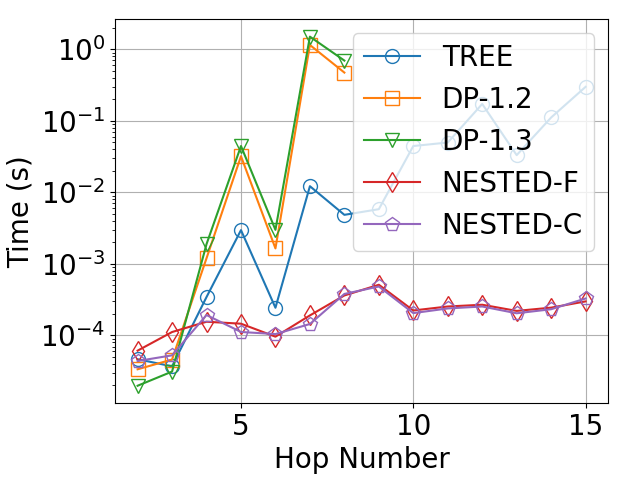
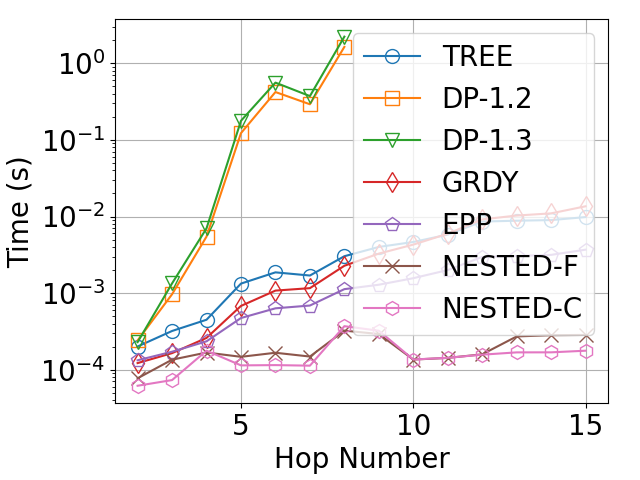
sync

diff --git a/src/eval_path_infocom.py b/src/eval_path_infocom.py
@@ -420,7 +420,7 @@ def test_binary_cost_all(fth, exp_num, gate=qu.GDP_LOSH):
         gate_desc = "L"
 
     cost_cap = 1e5
-    edge_num_range = range(2, 26, 1)
+    edge_num_range = range(2, 16, 1)
     # edge_num_range = range(4, 11, 2)
 
     binary_edge_limit = 4
@@ -541,17 +541,18 @@ def test_binary_cost_all(fth, exp_num, gate=qu.GDP_LOSH):
     filename = "data/path/binary_path_cost_f={}_noise={}.png".format(fth, gate_desc)
     draw_lines(x, ys, xlabel, ylabel, labels, markers, filename=filename, yscale='log')
 
-    ys1 = costs[:, :3].T
-    ys2 = costs[:, 3:].T
+    separate = 5
+    ys1 = costs[:, :separate].T
+    ys2 = costs[:, separate:].T
     filename = "data/path/binary_path_cost_f={}_noise={}_2y.png".format(fth, gate_desc)
     draw_2y_lines(x, ys1, ys2, xlabel, 
         y1_label=ylabel, y2_label=ylabel,
-        line1_labels=labels[:3], line2_labels=labels[3:],
-        line1_colors=colors[:3], line2_colors=colors[3:],
-        line1_markers=markers[:3], line2_markers=markers[3:],
+        line1_labels=labels[:separate], line2_labels=labels[separate:],
+        line1_colors=colors[:separate], line2_colors=colors[separate:],
+        line1_markers=markers[:separate], line2_markers=markers[separate:],
         xscale='linear', y1_scale='linear', y2_scale='log',
         xreverse=False, y1_reverse=False, y2_reverse=False,
-        xlim=None, y1_lim=None, y2_lim=(1e0, 1e5),
+        xlim=None, y1_lim=(0, 1e3), y2_lim=(1e0, 1e6),
         filename=filename,
         )
 
@@ -589,7 +590,7 @@ def test_binary_succ_all(fth, exp_num, gate=qu.GDP_LOSH):
             binary_edge_limit = 6
     if fth <= 0.9:
         if gate == qu.GDP:
-            binary_edge_limit = 10
+            binary_edge_limit = 8
         elif gate == qu.GDP_LOSH:
             binary_edge_limit = 6
 
@@ -699,17 +700,18 @@ def test_binary_succ_all(fth, exp_num, gate=qu.GDP_LOSH):
     filename = "data/path/binary_path_cost_f={}_noise={}.png".format(fth, gate_desc)
     draw_lines(x, ys, xlabel, ylabel, labels, markers, filename=filename, yscale='log')
 
-    ys1 = costs[:, :3].T
-    ys2 = costs[:, 3:].T
+    separate = 5
+    ys1 = costs[:, :separate].T
+    ys2 = costs[:, separate:].T
     filename = "data/path/binary_path_cost_f={}_noise={}_2y.png".format(fth, gate_desc)
     draw_2y_lines(x, ys1, ys2, xlabel, 
         y1_label=ylabel, y2_label=ylabel,
-        line1_labels=labels[:3], line2_labels=labels[3:],
-        line1_colors=colors[:3], line2_colors=colors[3:],
-        line1_markers=markers[:3], line2_markers=markers[3:],
+        line1_labels=labels[:separate], line2_labels=labels[separate:],
+        line1_colors=colors[:separate], line2_colors=colors[separate:],
+        line1_markers=markers[:separate], line2_markers=markers[separate:],
         xscale='linear', y1_scale='linear', y2_scale='log',
         xreverse=False, y1_reverse=False, y2_reverse=False,
-        xlim=None, y1_lim=None, y2_lim=(1e0, 1e5),
+        xlim=None, y1_lim=None, y2_lim=(1e0, 1e3),
         filename=filename,
         )
 
@@ -1780,15 +1782,15 @@ if __name__ == '__main__':
     exp_num = 1
 
     # 3 figures for different fth
-    test_binary_cost_all(0.9, exp_num)
+    # test_binary_cost_all(0.9, exp_num)
     # test_binary_cost_all(0.99, exp_num)
     # test_binary_cost_all(0.9999, exp_num)
 
     # 3 figures for different noise
-    # test_binary_succ_all(0.9, exp_num, gate=qu.GDP)    
-    # test_binary_succ_all(0.9, exp_num, gate=qu.GDP_LOSH)
-    # test_binary_succ_all(0.9, exp_num, gate=qu.GDP_LOSM)
-    # test_binary_succ_all(0.9, exp_num, gate=qu.GDP_LOSL)
+    test_binary_succ_all(0.99, exp_num, gate=qu.GDP)    
+    # test_binary_succ_all(0.99, exp_num, gate=qu.GDP_LOSH)
+    # test_binary_succ_all(0.99, exp_num, gate=qu.GDP_LOSM)
+    # test_binary_succ_all(0.99, exp_num, gate=qu.GDP_LOSL)
 
     # 3 figures for different fth (Werner)
     # test_werner_cost(0.85, exp_num)

diff --git a/src/eval_net_infocom.py b/src/eval_net_infocom.py
@@ -1,6 +1,7 @@
 
 import time
 import copy
+import pickle
 
 import numpy as np
 import networkx as nx
@@ -53,6 +54,7 @@ def test_dp_tp_by_fth(size, exp_num):
     task.set_user_pairs(user_pair_num)
     task.set_up_paths(path_num)
 
+    print("task created for size {}".format(size))
     for i, fth in enumerate(req_fids):
         task.workload_gen(req_num_range, (fth, fth))
 
@@ -96,6 +98,7 @@ def test_dp_tp_by_fth(size, exp_num):
         tps[i] /= exp_num
         times[i] /= exp_num
 
+        
         print("fidelity {} done".format(fth))
 
     x = error
@@ -104,6 +107,7 @@ def test_dp_tp_by_fth(size, exp_num):
     ylabel = "Throughput"
     markers = ['o', 's', 'v', 'x', 'd', 'p', '*']
     filename = "data/net/dp_net_tp_{}.png".format(size)
+    pickle.dump((x, ys, xlabel, ylabel, labels, markers), open(filename + ".pkl", "wb"))
     draw_lines(x, ys, xlabel, ylabel, labels, markers, xscale='log', xreverse=True, filename=filename)
 
     ys = [times[:, 0], times[:, 1], times[:, 2], times[:, 3], times[:, 4], times[:, 5], times[:, 6]]
@@ -330,9 +334,9 @@ if __name__ == '__main__':
     #     avg_edge_num += len(topology.edges)
     # print(avg_edge_num / 100)
 
-    test_dp_tp_by_fth('small', 1)
-    test_dp_tp_by_fth('medium', 1)
-    test_dp_tp_by_fth('large', 1)
+    test_dp_tp_by_fth('small', 20)
+    test_dp_tp_by_fth('medium', 20)
+    test_dp_tp_by_fth('large', 20)
 
     # test_wn_tp_by_fth('small', 100)
     # test_wn_tp_by_fth('medium', 100)

diff --git a/src/eval_net.py b/src/eval_net.py
@@ -1,6 +1,7 @@
 
 import time
 import copy
+import pickle
 
 import numpy as np
 import networkx as nx
@@ -86,6 +87,7 @@ def test_dp_tp_by_fth(size, exp_num):
     ylabel = "Throughput"
     markers = ['o', 's', 'v']
     filename = "../data/net/dp_net_tp_{}.png".format(size)
+    pickle.dump((x, ys, xlabel, ylabel, labels, markers), open(filename + ".pkl", "wb"))
     draw_lines(x, ys, xlabel, ylabel, labels, markers, xscale='log', xreverse=True, filename=filename)
 
     ys = [times[:, 0], times[:, 1], times[:, 2]]
@@ -215,9 +217,9 @@ if __name__ == '__main__':
 
 
 
-    test_dp_tp_by_fth('small', 10)
-    # test_dp_tp_by_fth('medium', 100)
-    # test_dp_tp_by_fth('large', 100)
+    test_dp_tp_by_fth('small', 20)
+    test_dp_tp_by_fth('medium', 20)
+    test_dp_tp_by_fth('large', 20)
 
     # test_wn_tp_by_fth('small', 100)
     # test_wn_tp_by_fth('medium', 100)
